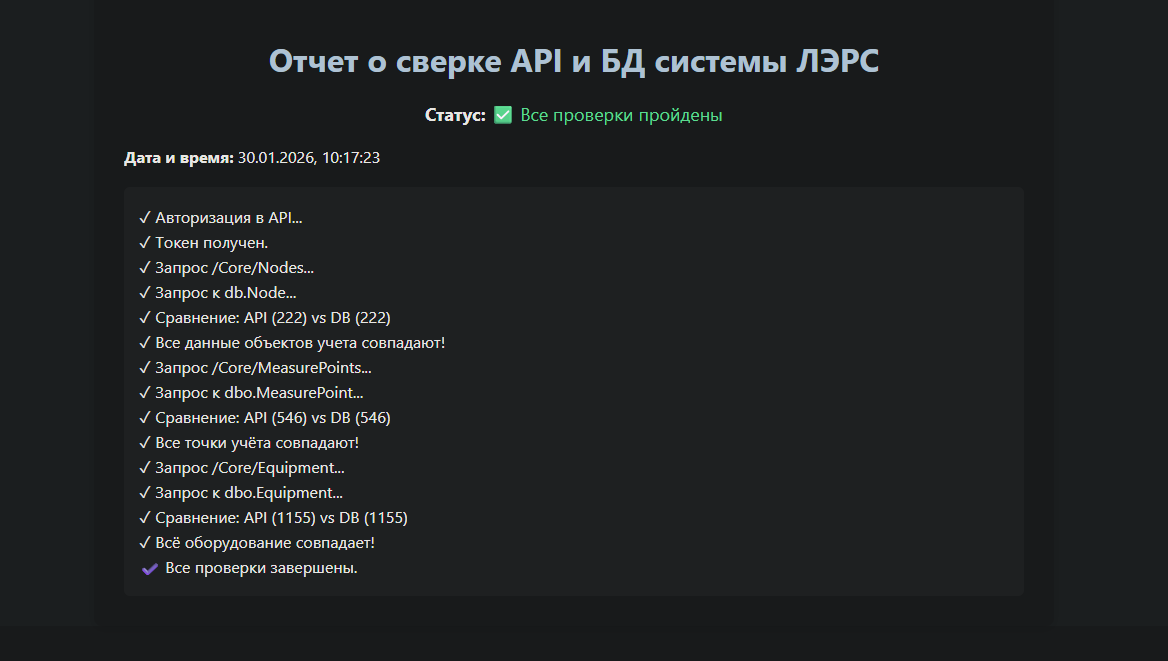
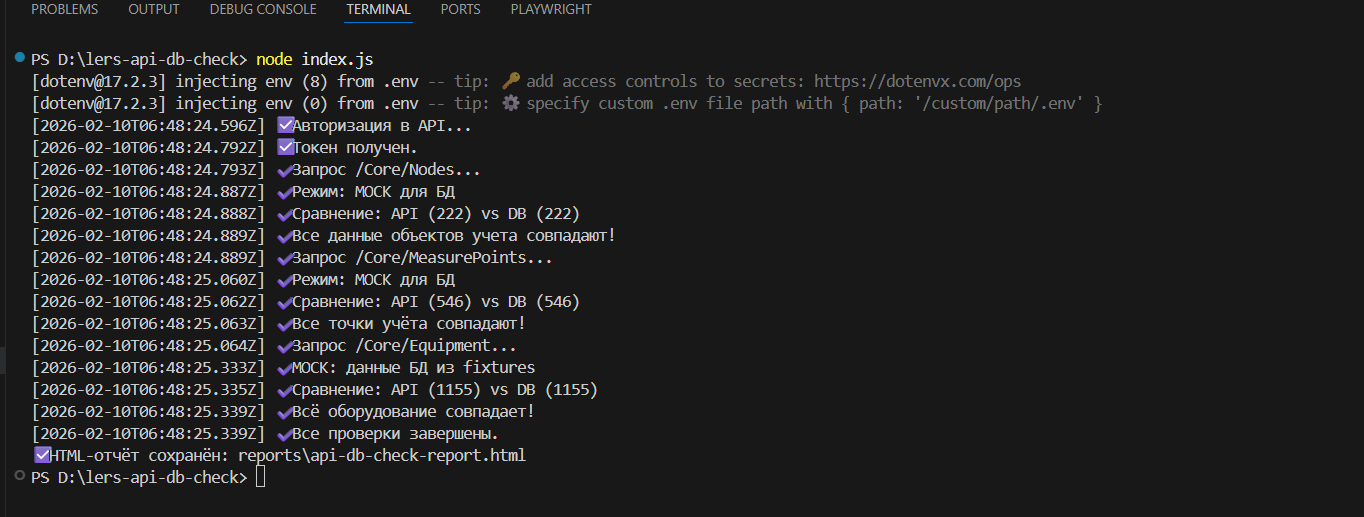
Update

Changed region(s): [[0.0, 0.0619, 0.8014, 0.9594], [0.1541, 0.0, 0.4315, 0.0309], [0.0308, 0.0, 0.1233, 0.0309]]

diff --git a/reports/api-db-check-report.html b/reports/api-db-check-report.html
@@ -19,23 +19,23 @@
 <body>
   <div class="container">
     <h1>Отчет о сверке API и БД системы ЛЭРС</h1>
-    <div class="status"><strong>Статус:</strong> <span class="success">✅ Все проверки пройдены</span></div>
-    <p><strong>Дата и время:</strong> 10.02.2026, 09:19:04</p>
-    <div class="log"><div class="log-line ">✓ Авторизация в API...</div>
-<div class="log-line ">✓ Токен получен.</div>
-<div class="log-line ">✓ Запрос /Core/Nodes...</div>
-<div class="log-line ">✓ Режим: МОСК для БД</div>
-<div class="log-line ">✓ Сравнение: API (222) vs DB (222)</div>
-<div class="log-line ">✓ Все данные объектов учета совпадают!</div>
-<div class="log-line ">✓ Запрос /Core/MeasurePoints...</div>
-<div class="log-line ">✓ Режим: МОСК для БД</div>
-<div class="log-line ">✓ Сравнение: API (546) vs DB (546)</div>
-<div class="log-line ">✓ Все точки учёта совпадают!</div>
-<div class="log-line ">✓ Запрос /Core/Equipment...</div>
-<div class="log-line ">✓ MOCK: данные БД из fixtures</div>
-<div class="log-line ">✓ Сравнение: API (1155) vs DB (1155)</div>
-<div class="log-line ">✓ Всё оборудование совпадает!</div>
-<div class="log-line ">✅ Все проверки завершены.</div>
+    <div class="status"><strong>Статус:</strong> <span class="success">✔ Все проверки пройдены</span></div>
+    <p><strong>Дата и время:</strong> 10.02.2026, 09:48:25</p>
+    <div class="log"><div class="log-line ">☑ Авторизация в API...</div>
+<div class="log-line ">☑ Токен получен.</div>
+<div class="log-line ">✔ Запрос /Core/Nodes...</div>
+<div class="log-line ">✔ Режим: МОСК для БД</div>
+<div class="log-line ">✔ Сравнение: API (222) vs DB (222)</div>
+<div class="log-line ">✔ Все данные объектов учета совпадают!</div>
+<div class="log-line ">✔ Запрос /Core/MeasurePoints...</div>
+<div class="log-line ">✔ Режим: МОСК для БД</div>
+<div class="log-line ">✔ Сравнение: API (546) vs DB (546)</div>
+<div class="log-line ">✔ Все точки учёта совпадают!</div>
+<div class="log-line ">✔ Запрос /Core/Equipment...</div>
+<div class="log-line ">✔ MOCK: данные БД из fixtures</div>
+<div class="log-line ">✔ Сравнение: API (1155) vs DB (1155)</div>
+<div class="log-line ">✔ Всё оборудование совпадает!</div>
+<div class="log-line ">✔ Все проверки завершены.</div>
 
     </div>
   </div>
